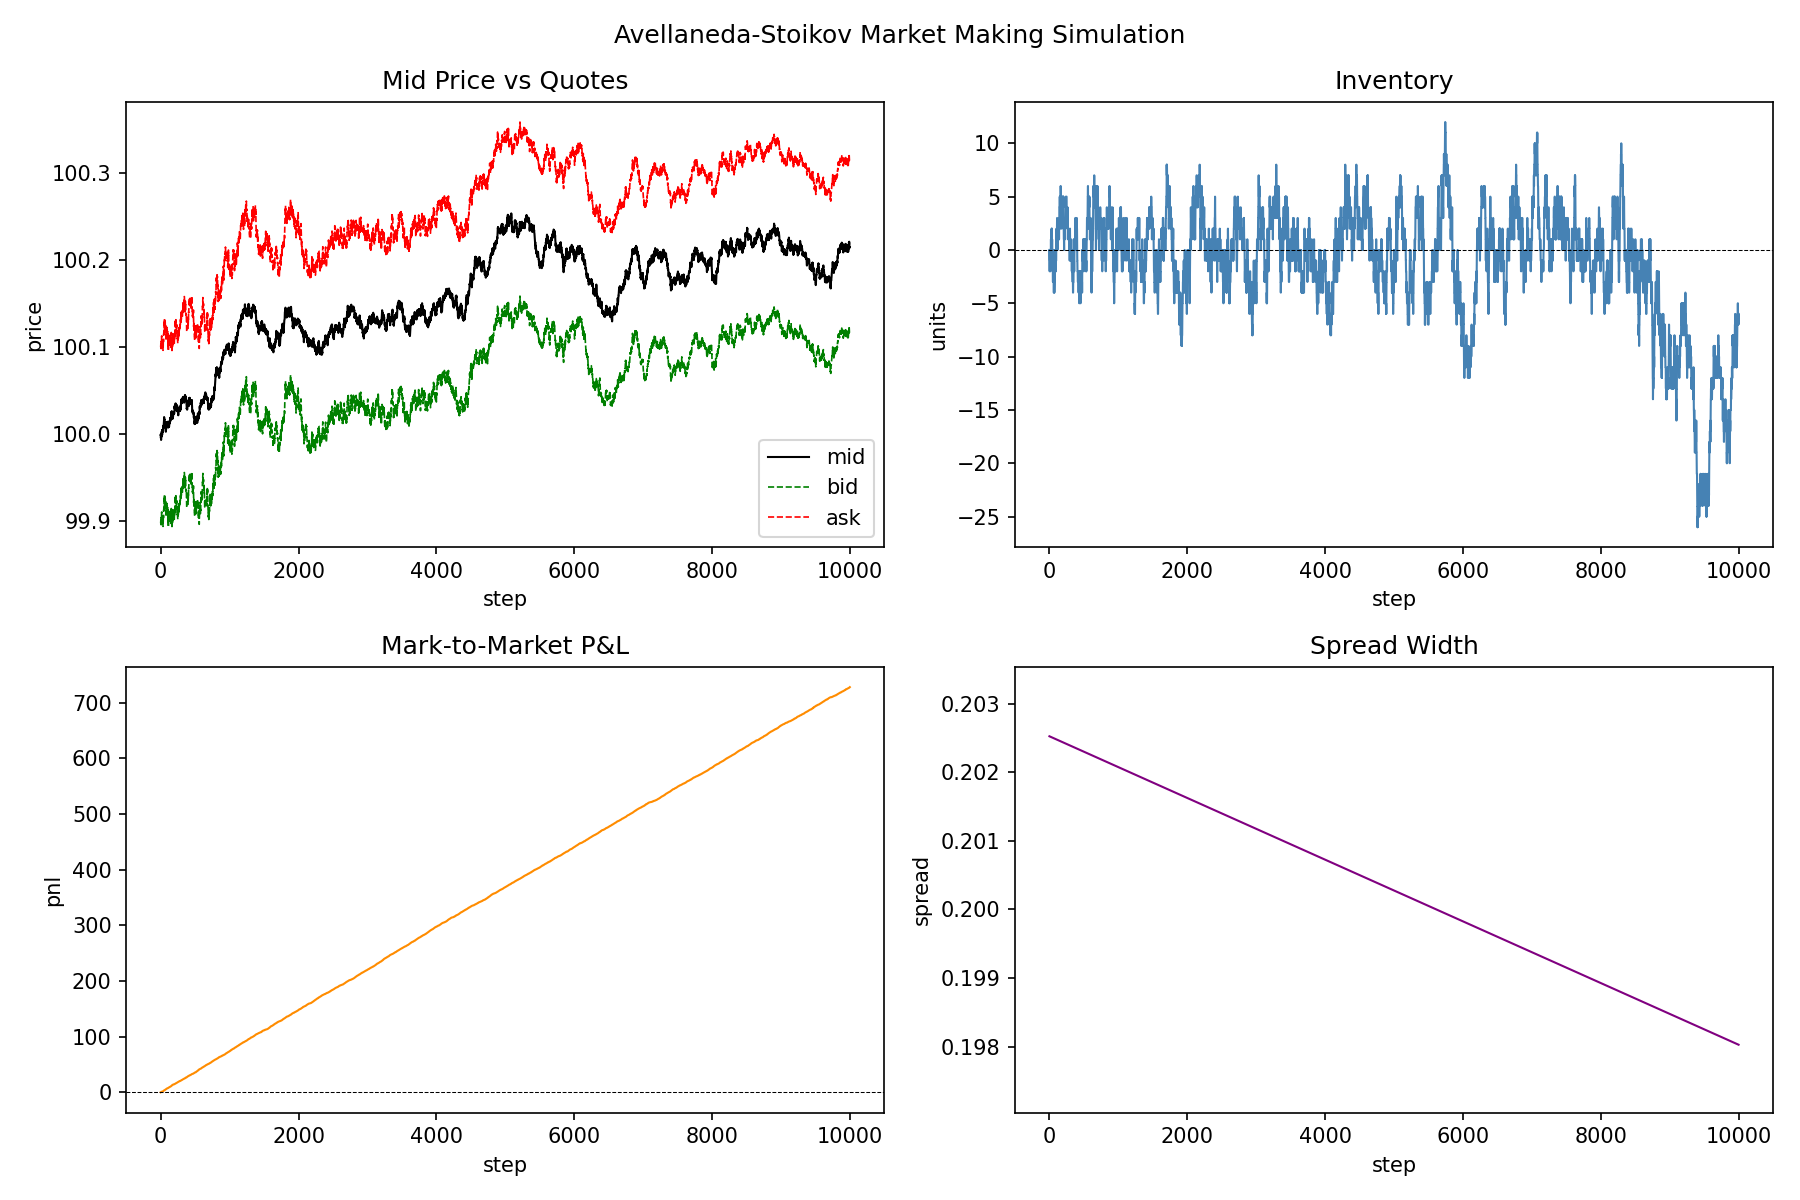
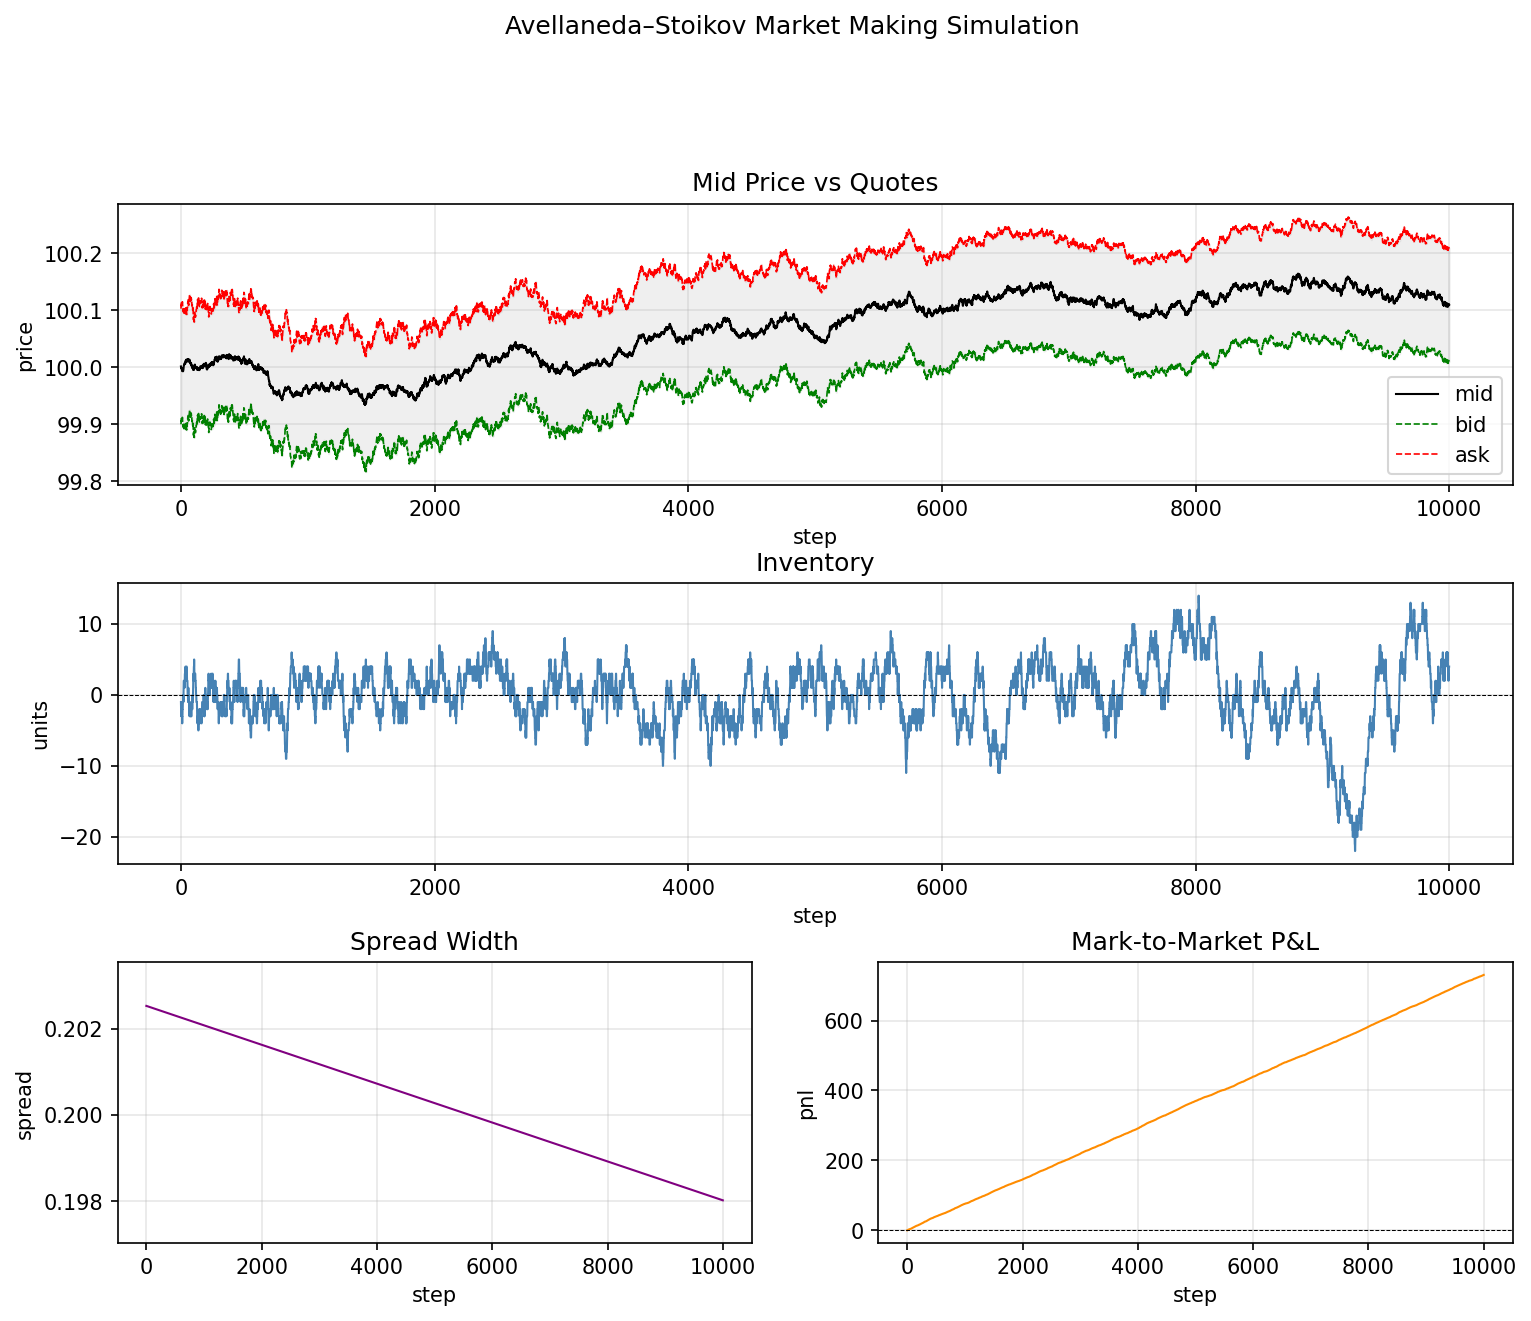
improving visualisations

diff --git a/visualisation.py b/visualisation.py
@@ -1,4 +1,5 @@
 import matplotlib.pyplot as plt
+from matplotlib.gridspec import GridSpec
 
 
 def plot_simulation(log):
@@ -10,45 +11,49 @@ def plot_simulation(log):
     inventory = [r["inventory"] for r in log]
     pnl = [r["pnl"] for r in log]
 
-    fig, axes = plt.subplots(2, 2, figsize=(12, 8))
-    fig.suptitle("Avellaneda-Stoikov Market Making Simulation")
+    fig = plt.figure(figsize=(12, 9))
+    gs = GridSpec(3, 2, figure=fig, height_ratios=[1, 1, 1], hspace=0.35)
 
-    # mid price vs bid/ask
-    ax = axes[0, 0]
-    ax.plot(steps, S, label="mid", color="black", linewidth=1)
-    ax.plot(steps, bid, label="bid", color="green", linewidth=0.8, linestyle="--")
-    ax.plot(steps, ask, label="ask", color="red", linewidth=0.8, linestyle="--")
-    ax.set_title("Mid Price vs Quotes")
-    ax.set_xlabel("step")
-    ax.set_ylabel("price")
-    ax.legend()
+    # Top: mid price vs quotes (full width)
+    ax_price = fig.add_subplot(gs[0, :])
+    ax_price.fill_between(steps, bid, ask, color="gray", alpha=0.12)
+    ax_price.plot(steps, S, label="mid", color="black", linewidth=1)
+    ax_price.plot(steps, bid, label="bid", color="green", linewidth=0.8, linestyle="--")
+    ax_price.plot(steps, ask, label="ask", color="red", linewidth=0.8, linestyle="--")
+    ax_price.set_title("Mid Price vs Quotes")
+    ax_price.set_ylabel("price")
+    ax_price.set_xlabel("step")
+    ax_price.legend()
+    ax_price.grid(True, alpha=0.3)
 
-    # inventory
-    ax = axes[0, 1]
-    ax.plot(steps, inventory, color="steelblue", linewidth=1)
-    ax.axhline(0, color="black", linewidth=0.5, linestyle="--")
-    ax.set_title("Inventory")
-    ax.set_xlabel("step")
-    ax.set_ylabel("units")
+    # Middle: inventory (full width, shared x with price)
+    ax_inv = fig.add_subplot(gs[1, :], sharex=ax_price)
+    ax_inv.plot(steps, inventory, color="steelblue", linewidth=1)
+    ax_inv.axhline(0, color="black", linewidth=0.5, linestyle="--")
+    ax_inv.set_title("Inventory")
+    ax_inv.set_ylabel("units")
+    ax_inv.set_xlabel("step")
+    ax_inv.grid(True, alpha=0.3)
 
-    # cumulative pnl
-    ax = axes[1, 0]
-    ax.plot(steps, pnl, color="darkorange", linewidth=1)
-    ax.axhline(0, color="black", linewidth=0.5, linestyle="--")
-    ax.set_title("Mark-to-Market P&L")
-    ax.set_xlabel("step")
-    ax.set_ylabel("pnl")
+    # Bottom: spread and P&L side by side
+    ax_spread = fig.add_subplot(gs[2, 0], sharex=ax_inv)
+    ax_spread.plot(steps, spread, color="purple", linewidth=1)
+    ax_spread.set_title("Spread Width")
+    ax_spread.set_xlabel("step")
+    ax_spread.set_ylabel("spread")
+    ax_spread.grid(True, alpha=0.3)
+    spread_vals = [r["spread"] for r in log]
+    ax_spread.set_ylim(min(spread_vals) * 0.995, max(spread_vals) * 1.005)
 
-    # spread over time
-    ax = axes[1, 1]
-    ax.plot(steps, spread, color="purple", linewidth=1)
-    ax.set_title("Spread Width")
-    ax.set_xlabel("step")
-    ax.set_ylabel("spread")
-    ## Set y-axis limits to fit the spread values (for better visualization)
-    spreads = [r["spread"] for r in log]
-    ax.set_ylim(min(spreads) * 0.995, max(spreads) * 1.005)
+    ax_pnl = fig.add_subplot(gs[2, 1], sharex=ax_inv)
+    ax_pnl.plot(steps, pnl, color="darkorange", linewidth=1)
+    ax_pnl.axhline(0, color="black", linewidth=0.5, linestyle="--")
+    ax_pnl.set_title("Mark-to-Market P&L")
+    ax_pnl.set_xlabel("step")
+    ax_pnl.set_ylabel("pnl")
+    ax_pnl.grid(True, alpha=0.3)
 
+    fig.suptitle("Avellaneda–Stoikov Market Making Simulation", y=1.02)
     plt.tight_layout()
-    plt.savefig("simulation.png", dpi=150)
+    plt.savefig("simulation.png", dpi=150, bbox_inches="tight")
     plt.show()
